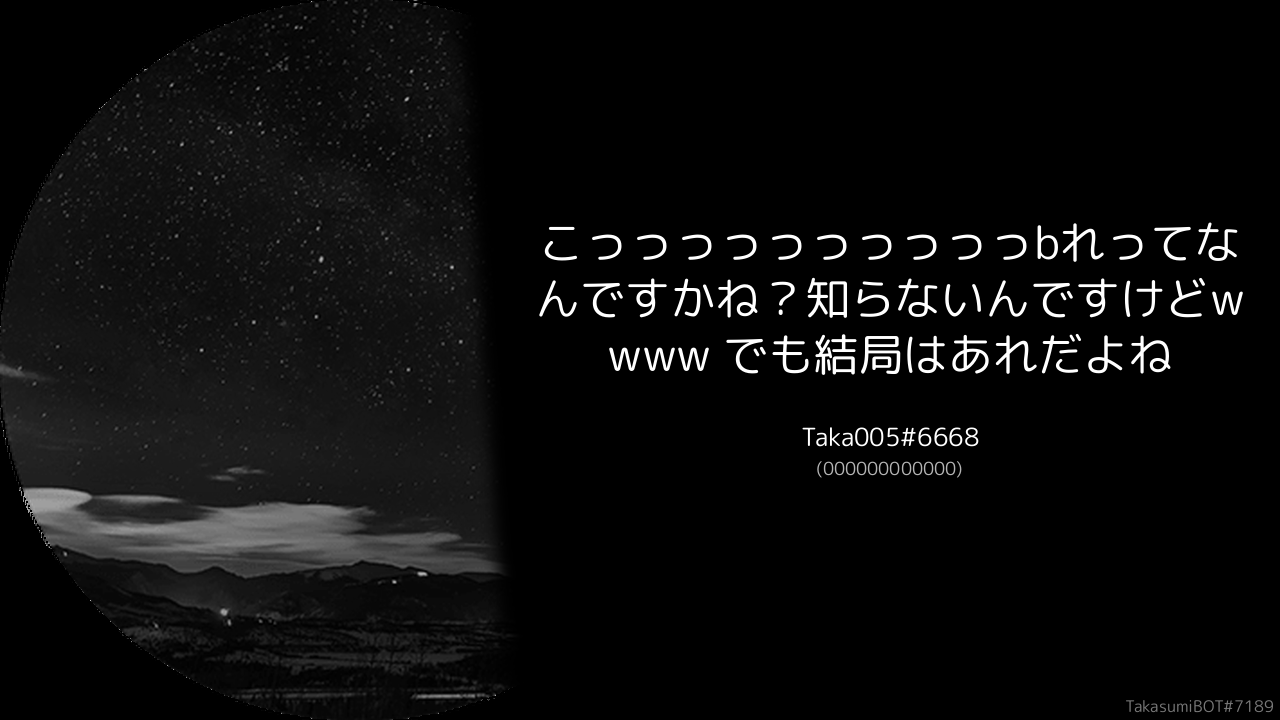
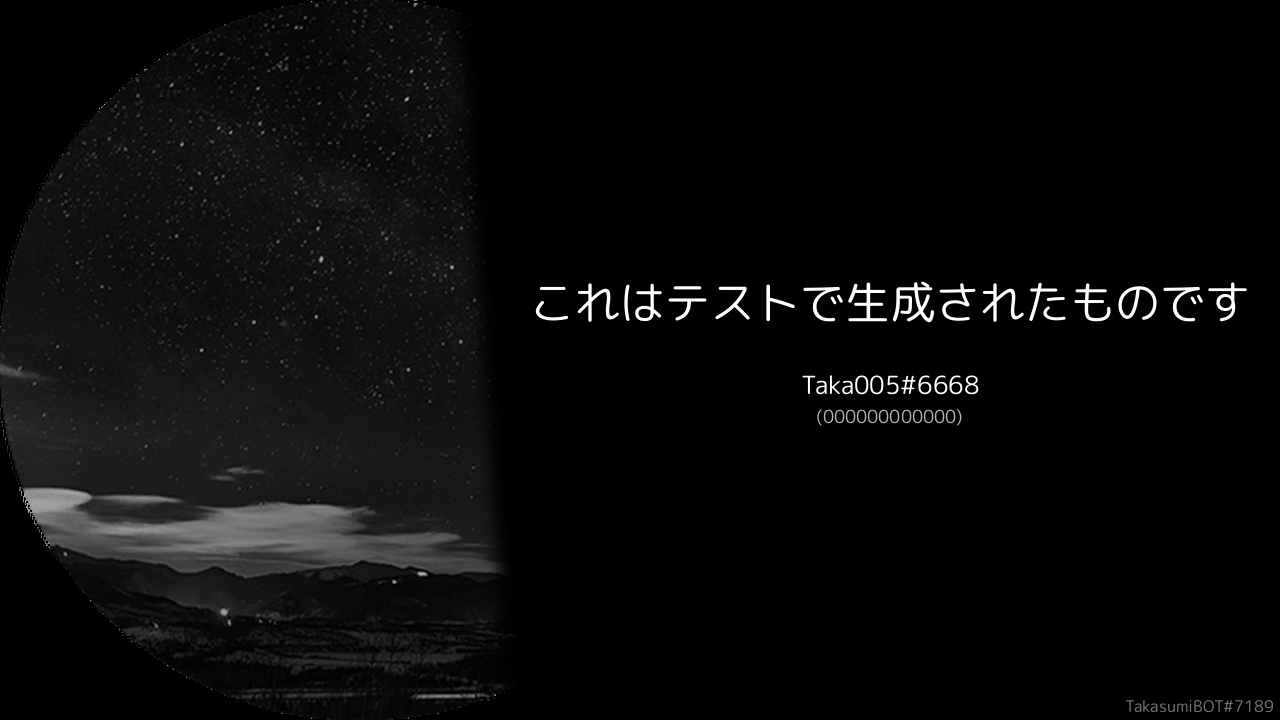
修正

Changed region(s): [[0.4062, 0.3056, 0.9688, 0.6722], [0.4062, 0.3361, 0.4375, 0.3667]]

diff --git a/main.py b/main.py
@@ -9,10 +9,10 @@ ICON = 'icon.png'
 
 MPLUS_FONT_16 = ImageFont.truetype("fonts/MPLUSRounded1c-Regular.ttf", size=16)
 
-def draw_text(im, ofs, string, font="fonts/MPLUSRounded1c-Regular.ttf", size=16, color=(0,0,0,255), split_len=None, padding=4, auto_expand=False, disable_dot_wrap=False):
+def draw_text(im,ofs,string,font="fonts/MPLUSRounded1c-Regular.ttf",size=16,color=(0,0,0,255),split_len=None,padding=4,auto_expand=False,disable_dot_wrap=False):
     
     draw = ImageDraw.Draw(im)
-    fontObj = ImageFont.truetype(font, size=size)
+    fontObj = ImageFont.truetype(font,size=size)
 
     pure_lines = []
     pos = 0
@@ -44,7 +44,7 @@ def draw_text(im, ofs, string, font="fonts/MPLUSRounded1c-Regular.ttf", size=16,
     lines = []
 
     for line in pure_lines:
-        lines.extend(textwrap.wrap(line, width=split_len))
+        lines.extend(textwrap.wrap(line,width=split_len))
     
     dy = 0
 
@@ -59,7 +59,7 @@ def draw_text(im, ofs, string, font="fonts/MPLUSRounded1c-Regular.ttf", size=16,
         t_height = tsize[1]
 
         x = int(ofs[0] - (tsize[0]/2))
-        draw_lines.append((x, ofs_y, line))
+        draw_lines.append((x,ofs_y,line))
         ofs_y += t_height + padding
         dy += t_height + padding
     
@@ -67,43 +67,43 @@ def draw_text(im, ofs, string, font="fonts/MPLUSRounded1c-Regular.ttf", size=16,
     adj_y = -30 * (len(draw_lines)-1)
     for dl in draw_lines:
         with Pilmoji(im) as p:
-            p.text((dl[0], (adj_y + dl[1])), dl[2], font=fontObj, fill=color)
+            p.text((dl[0],(adj_y + dl[1])),dl[2],font=fontObj,fill=color)
 
     real_y = ofs[1] + adj_y + dy
 
-    return (0, dy, real_y)
+    return (0,dy,real_y)
 
-content = "こっっっっっっっっっっbれってなんですかね？知らないんですけどwwww でも結局はあれだよね"
+content = "これはテストで生成されたものです"
 # 引用する
 img = BASE_WHITE_IMAGE.copy()
 
 icon = Image.open(ICON)
-icon = icon.resize((720, 720), Image.LANCZOS)
+icon = icon.resize((720,720),Image.LANCZOS)
 icon = icon.convert("L")
 icon_filtered = ImageEnhance.Brightness(icon)
 
-img.paste(icon_filtered.enhance(0.7), (0,0))
+img.paste(icon_filtered.enhance(0.7),(0,0))
 
 # 黒グラデ合成
-img.paste(BASE_GRADATION_IMAGE, (0,0), BASE_GRADATION_IMAGE)
+img.paste(BASE_GRADATION_IMAGE,(0,0),BASE_GRADATION_IMAGE)
 
 # テキスト合成
 tx = ImageDraw.Draw(img)
 
 # 文章描画
-tsize_t = draw_text(img, (890, 270), content, size=45, color=(255,255,255,255), split_len=16, auto_expand=True)
+tsize_t = draw_text(img,(890,270),content,size=45,color=(255,255,255,255),split_len=16,auto_expand=True)
 
 # 名前描画
 uname = 'Taka005#6668'
 name_y = tsize_t[2] + 40
-tsize_name = draw_text(img, (890, name_y), uname, size=25, color=(255,255,255,255), split_len=25, disable_dot_wrap=True)
+tsize_name = draw_text(img,(890,name_y),uname,size=25,color=(255,255,255,255),split_len=25,disable_dot_wrap=True)
 
 # ID描画
 id = '000000000000'
 id_y = name_y + tsize_name[1] + 4
-tsize_id = draw_text(img, (890, id_y), f"({id})", size=18, color=(180,180,180,255), split_len=45, disable_dot_wrap=True)
+tsize_id = draw_text(img,(890,id_y),f"({id})",size=18,color=(180,180,180,255),split_len=45,disable_dot_wrap=True)
 
 # クレジット
-tx.text((1125, 694), "TakasumiBOT#7189", font=MPLUS_FONT_16, fill=(120,120,120,255))
+tx.text((1125, 694),"TakasumiBOT#7189",font=MPLUS_FONT_16,fill=(120,120,120,255))
 
-img.save("quote.png", quality=100)
+img.save("quote.png",quality=100)
